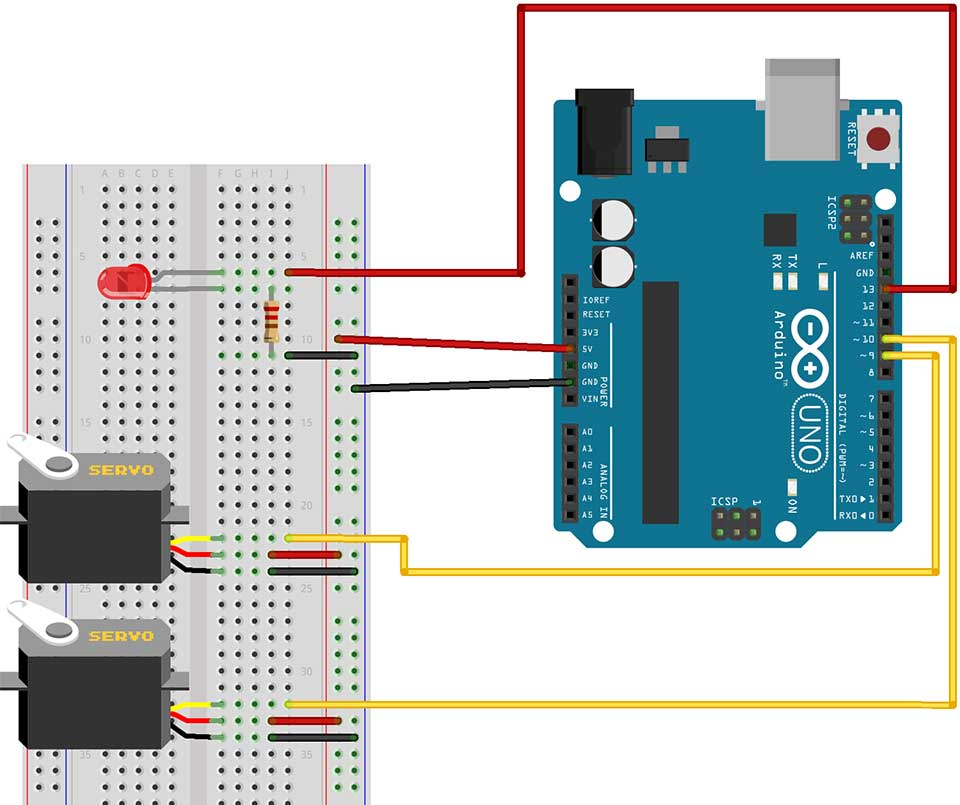
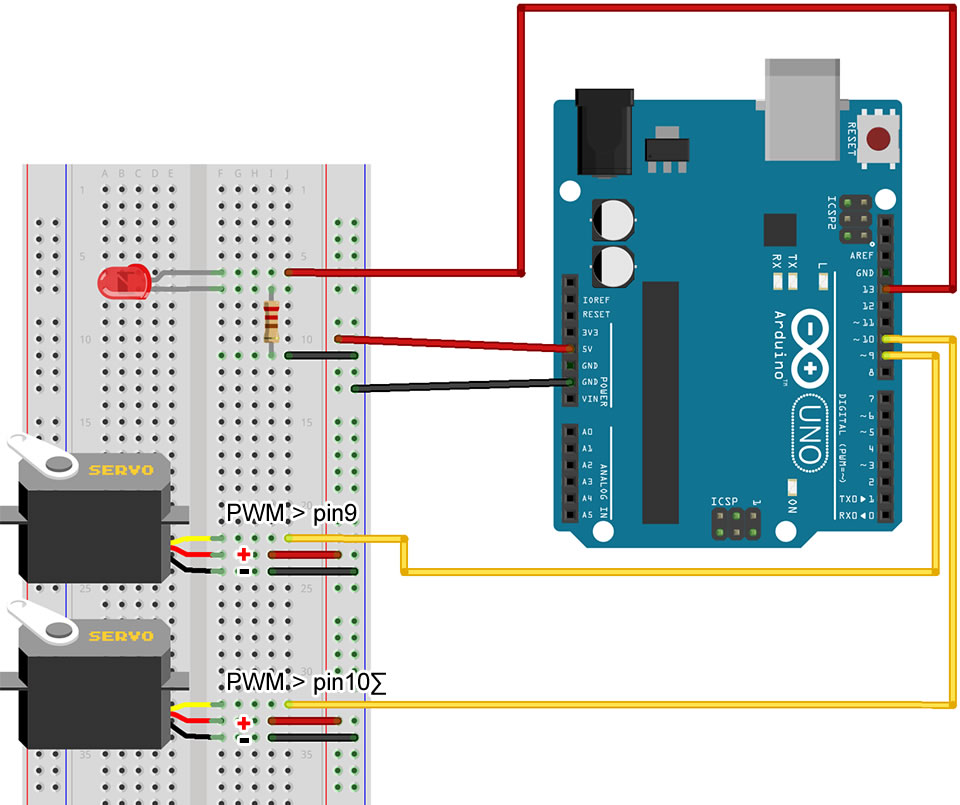
refactoring,

diff --git a/cat.js b/cat.js
@@ -26,7 +26,9 @@
 // and it is javascript all the way.
 
 // variables
-var five = require("johnny-five"),  // johnny-five, enable us to talk to sir arduino
+
+var five = require('johnny-five'),  // johnny-five, enable us to talk to sir arduino
+    config = require('./config'),
     board = new five.Board(),       // initialise a board instance that will contain instance of our hardware
     servo,
     servoY,
@@ -34,13 +36,12 @@ var five = require("johnny-five"),  // johnny-five, enable us to talk to sir ard
     onlineLed,
     socket,
     client = require('socket.io-client'),
-    servInfo = 'http://localhost:4000',
-    //servInfo = 'http://192.168.2.191:4000/',
+    servInfo = config.servInfo.url+':'+config.servInfo.port,
     boardState
     ;
 
 // borad initialisation
-board.on("ready", function() {
+board.on('ready', function() {
 
     // in this section we will create instances for our hardware
     // This example allows the button module to
@@ -58,7 +59,8 @@ board.on("ready", function() {
         laser:laser,
         onlineLed: onlineLed
     });
-    boardState = "groovy"; // the board is available (used to prevent move order before init)
+    boardState = '  groovy'   ; // the board is available (used to prevent move order before init)
+    console.log(servInfo);
 });
 
 // arduino <---> socket.
@@ -86,7 +88,7 @@ socket.on('message', function (e) {
     // TODO : create "briquet" and "mouvements" as libs to show module includes
     // or a light switch
     else if(e.noduinoEvent === 'ledSwitchAction'){
-        //briquet.ledSwitch();
+        onlineLed.on();
     }
     else if(e.noduinoEvent === 'ledStrobeAction'){
         //briquet.ledPulse();

diff --git a/public/help/index.html b/public/help/index.html
@@ -193,15 +193,20 @@
             <div class="span12">
                 <h1>Step Two, adding motion</h1>
                 <p>
-                    now that we can control light, let's star controlling motion as well, first thing first, lets connect our servomotors
+                    now that we can control light, let's star controlling motion as well, first thing first, lets connect our servomotors to the breadboard.
                 </p>
+                <p>
+                    <span class="label label-info">Note</span> not all servo have the same pin configuration as the one in the diagram. check yours first. <br>
+                    these 9g servos have 3 pins, positive, negative, and PWM, <a href="#pwm">Pulse Wave Modulation</a> is used to control the angle of your servo
+                    so connect positive and negative pins to the breadboard's power line
+   -;:                </p>
                 <div class="row">
                     <div class="span8">
                         <img src="/images/02servos.jpg" class="boardPict" alt="">
                     </div>
                 </div>
                 <p>
-
+                    
                 </p>
 
             </div>

diff --git a/server.js b/server.js
@@ -3,20 +3,21 @@
 // for the tutorial part.
 
 // standard express server + socket.io on port:4000
-var express = require("express");
-var app = express();
-var http = require('http');
-var server = http.createServer(app);
-var port = process.env.PORT || 4000; // listen to heroku's port or 4000
-var io = require('socket.io').listen(
+var express = require("express"),
+    app = express(),
+    config = require('./config'),
+    http = require('http'),
+    server = http.createServer(app),
+    port = process.env.PORT || config.servInfo.port, // listen to heroku's port or 4000
+    io = require('socket.io').listen(
     app.listen(port,function() {
         console.log("Listening on " + port);
         }
     ));
 var count = 0;
 // used for unity launch a tcp server at port 5000
-var tcpPort = require('./lib/tcpPortServer');
-tcpPort();
+//var tcpPort = require('./lib/tcpPortServer');
+//tcpPort();
 
 // reduced log )
 io.set('log level', 1);

diff --git a/lib/briquet.js b/lib/briquet.js
@@ -1,0 +1,29 @@
+briquet={
+    ledOn : function(argument) {
+        headledLed.on();
+    },
+    ledOff : function(argument) {
+        headledLed.off();
+    },
+    ledSwitch: function() {
+        if (blink === false) {
+            briquet.ledOn();
+            blink = true;
+        } else {
+            briquet.ledOff();
+            blink = false;
+        }
+    },
+    ledPulse : function(argument) {
+        headledLed.strobe( 500 );
+        console.log("pulse on");
+        // Turn off the led pulse loop after 1 seconds (shown in ms)
+
+        board.wait( 5000, function() {
+            headledLed.stop().off();
+            console.log("pulse off");
+        });
+    }
+};
+
+module.exports = briquet;

diff --git a/config.js b/config.js
@@ -1,0 +1,10 @@
+var config = {};
+
+config.twitter = {};
+config.servInfo = {};
+
+config.servInfo.url = 'http://localhost';
+config.servInfo.port = process.env.PORT || 4000,
+	
+
+module.exports = config;
